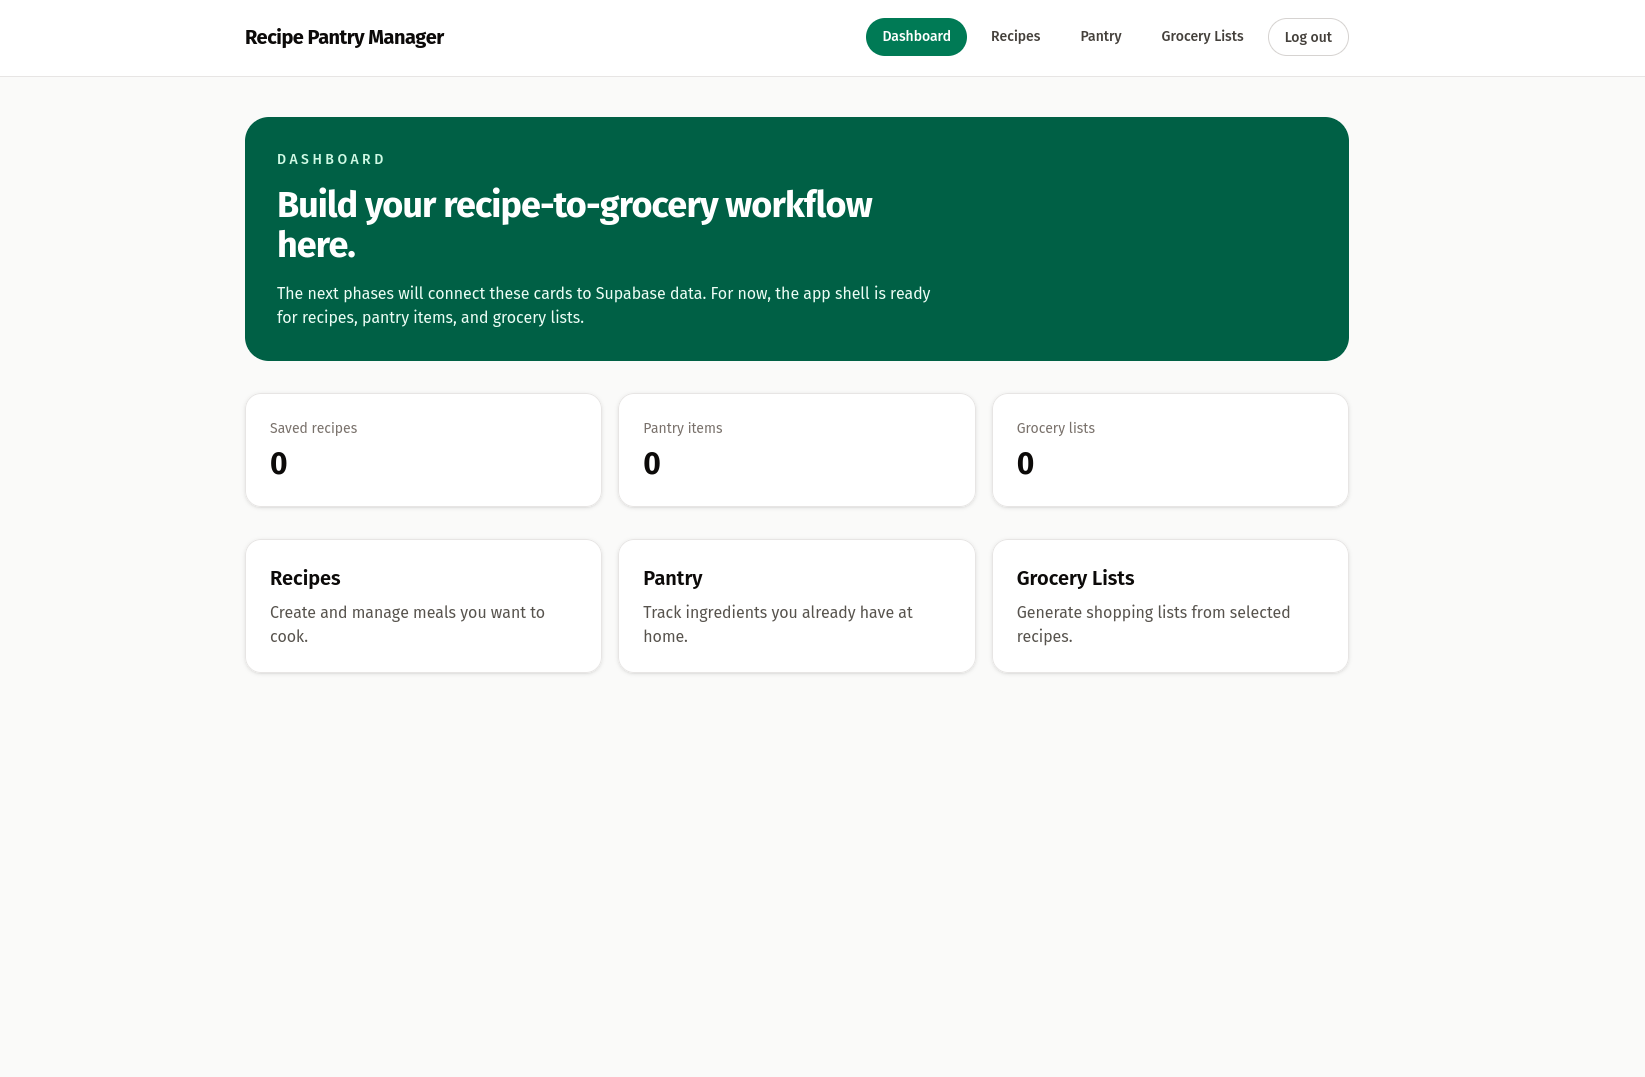
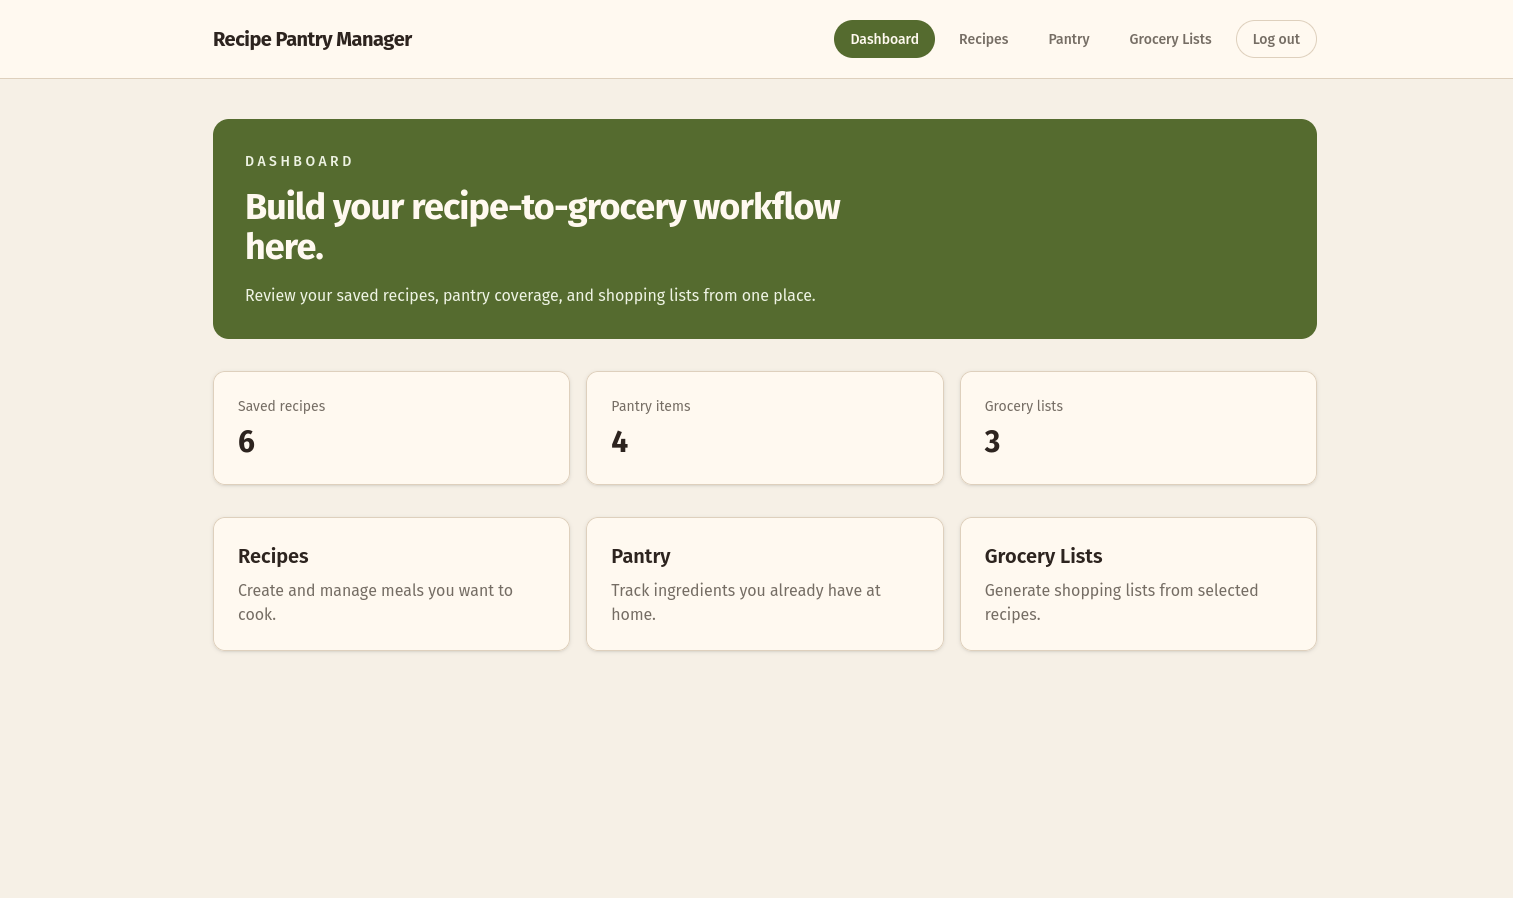
update readme with project info

diff --git a/README.md b/README.md
@@ -1,221 +1,156 @@
 # Recipe Pantry Manager
 
-Recipe Pantry Manager is a full-stack recipe and pantry app for saving recipes, tracking ingredients at home, and generating grocery lists based on what still needs to be bought.
+Recipe Pantry Manager is a full-stack recipe, pantry, and grocery-list app. Users can save recipes, manage a home pantry, and generate grocery lists that separate what they need to buy from what is already on hand.
 
-Welcome to your new TanStack Start app! 
+The app includes authenticated user data, server-side mutations, recipe importing, Supabase-backed storage, database migrations, Row Level Security, and automated tests.
 
-# Getting Started
+## Features
 
-To run this application:
+- Email/password authentication with protected app routes
+- Recipe create, read, update, and delete flows
+- Recipe URL import from structured JSON-LD recipe pages
+- Recipe image URL and upload support through Supabase Storage
+- Pantry item create, read, update, and delete flows
+- Recipe and pantry items search and filtering
+- Grocery list generation from one or more recipes
+- Pantry-aware grocery list sections for `Need to Buy` and `Already in Pantry`
+- Grocery item checkoff while shopping
+- Saved grocery lists with delete and regenerate from source recipes and current pantry
+- Unit tests and a Playwright core workflow test
+
+## Tech Stack
+
+- TanStack Start
+- TanStack Router
+- React
+- TypeScript
+- Tailwind
+- Supabase Auth, Storage and Database
+- Drizzle ORM and Drizzle Kit
+- Zod
+- Biome
+- Vitest
+- Playwright
+- Netlify
+
+## Screenshot
+
+![Recipe Pantry Manager screenshot](docs/images/recipe-pantry-manager.png)
+
+## Getting Started
+
+Install dependencies:
 
 ```bash
-npm install
-npm run dev
+pnpm install
 ```
 
-# Building For Production
-
-To build this application for production:
+Copy the environment template and fill in real values:
 
 ```bash
-npm run build
+cp .env.example .env
 ```
+
+Start the development server:
+
+```bash
+pnpm run dev
+```
+
+The app runs at `http://localhost:3000` by default.
+
+## Environment Variables
+
+The app expects these values:
+
+```env
+DATABASE_URL="postgresql://postgres.PROJECT_REF:YOUR_PASSWORD@aws-1-us-east-1.pooler.supabase.com:6543/postgres"
+VITE_SUPABASE_URL="https://PROJECT_REF.supabase.co"
+VITE_SUPABASE_ANON_KEY="YOUR_SUPABASE_ANON_KEY"
+
+E2E_EMAIL="recipe-pantry-e2e@example.com"
+E2E_PASSWORD="YOUR_E2E_TEST_PASSWORD"
+PLAYWRIGHT_BASE_URL="http://localhost:3000"
+```
+
+`DATABASE_URL`, `VITE_SUPABASE_URL`, and `VITE_SUPABASE_ANON_KEY` are required for the app to connect to Supabase. The `E2E_*` values are only required when running the Playwright workflow test.
+
+## Database
+
+Generate migrations after schema changes:
+
+```bash
+pnpm run db:generate
+```
+
+Apply migrations:
+
+```bash
+pnpm run db:migrate
+```
+
+Open Drizzle Studio:
+
+```bash
+pnpm run db:studio
+```
+
+The schema includes Row Level Security policies so authenticated users can only access their own recipes, pantry items, grocery lists, recipe tags, and related child records.
+
+## Scripts
+
+- `pnpm run dev` starts the local dev server
+- `pnpm run build` builds the production app
+- `pnpm run preview` previews the production build locally
+- `pnpm run check` runs Biome checks
+- `pnpm run check:fix` runs Biome and writes safe fixes
+- `pnpm run typecheck` runs TypeScript without emitting files
+- `pnpm run test` runs unit tests
+- `pnpm run test:e2e` runs Playwright tests
+- `pnpm run verify` runs checks, typecheck, and unit tests
 
 ## Testing
 
-This project uses [Vitest](https://vitest.dev/) for testing. You can run the tests with:
+Run unit tests:
 
 ```bash
-npm run test
+pnpm run test
 ```
 
-## Styling
-
-This project uses [Tailwind CSS](https://tailwindcss.com/) for styling.
-
-### Removing Tailwind CSS
-
-If you prefer not to use Tailwind CSS:
-
-1. Remove the demo pages in `src/routes/demo/`
-2. Replace the Tailwind import in `src/styles.css` with your own styles
-3. Remove `tailwindcss()` from the plugins array in `vite.config.ts`
-4. Uninstall the packages: `npm install @tailwindcss/vite tailwindcss -D`
-
-## Linting & Formatting
-
-This project uses [Biome](https://biomejs.dev/) for linting and formatting. The following scripts are available:
-
+Run the standard verification suite:
 
 ```bash
-npm run lint
-npm run format
-npm run check
+pnpm run verify
 ```
 
+Run the Playwright workflow test:
 
-## Deploy to Netlify
-
-This project ships with `netlify.toml` configured for a Netlify site:
-
-1. Push this repo to GitHub
-2. Visit https://app.netlify.com/start and import the repo
-3. Netlify auto-detects the build (`vite build` → `dist/client`)
-4. Open **Site settings → Environment variables** and add anything from `.env.example` that needs a real value in production
-5. Trigger the first deploy
-
-Server functions and API routes run on Netlify Functions. For lower-latency request handling, see Netlify Edge Functions: https://docs.netlify.com/edge-functions/overview.
-
-
-
-## Routing
-
-This project uses [TanStack Router](https://tanstack.com/router) with file-based routing. Routes are managed as files in `src/routes`.
-
-### Adding A Route
-
-To add a new route to your application just add a new file in the `./src/routes` directory.
-
-TanStack will automatically generate the content of the route file for you.
-
-Now that you have two routes you can use a `Link` component to navigate between them.
-
-### Adding Links
-
-To use SPA (Single Page Application) navigation you will need to import the `Link` component from `@tanstack/react-router`.
-
-```tsx
-import { Link } from "@tanstack/react-router";
+```bash
+pnpm run test:e2e
 ```
 
-Then anywhere in your JSX you can use it like so:
+The E2E test requires `E2E_EMAIL` and `E2E_PASSWORD` for an existing test account. It creates a pantry item, recipe, and grocery list, verifies the pantry-aware split, then performs best-effort cleanup.
 
-```tsx
-<Link to="/about">About</Link>
+## Deployment
+
+The project includes `netlify.toml` for Netlify deployment.
+
+Build command:
+
+```bash
+pnpm run build
 ```
 
-This will create a link that will navigate to the `/about` route.
+Publish directory:
 
-More information on the `Link` component can be found in the [Link documentation](https://tanstack.com/router/v1/docs/framework/react/api/router/linkComponent).
-
-### Using A Layout
-
-In the File Based Routing setup the layout is located in `src/routes/__root.tsx`. Anything you add to the root route will appear in all the routes. The route content will appear in the JSX where you render `{children}` in the `shellComponent`.
-
-Here is an example layout that includes a header:
-
-```tsx
-import { HeadContent, Scripts, createRootRoute } from '@tanstack/react-router'
-
-export const Route = createRootRoute({
-  head: () => ({
-    meta: [
-      { charSet: 'utf-8' },
-      { name: 'viewport', content: 'width=device-width, initial-scale=1' },
-      { title: 'My App' },
-    ],
-  }),
-  shellComponent: ({ children }) => (
-    <html lang="en">
-      <head>
-        <HeadContent />
-      </head>
-      <body>
-        <header>
-          <nav>
-            <Link to="/">Home</Link>
-            <Link to="/about">About</Link>
-          </nav>
-        </header>
-        {children}
-        <Scripts />
-      </body>
-    </html>
-  ),
-})
+```txt
+dist/client
 ```
 
-More information on layouts can be found in the [Layouts documentation](https://tanstack.com/router/latest/docs/framework/react/guide/routing-concepts#layouts).
+Add the Supabase environment variables in Netlify before deploying:
 
-## Server Functions
+- `DATABASE_URL`
+- `VITE_SUPABASE_URL`
+- `VITE_SUPABASE_ANON_KEY`
 
-TanStack Start provides server functions that allow you to write server-side code that seamlessly integrates with your client components.
-
-```tsx
-import { createServerFn } from '@tanstack/react-start'
-
-const getServerTime = createServerFn({
-  method: 'GET',
-}).handler(async () => {
-  return new Date().toISOString()
-})
-
-// Use in a component
-function MyComponent() {
-  const [time, setTime] = useState('')
-  
-  useEffect(() => {
-    getServerTime().then(setTime)
-  }, [])
-  
-  return <div>Server time: {time}</div>
-}
-```
-
-## API Routes
-
-You can create API routes by using the `server` property in your route definitions:
-
-```tsx
-import { createFileRoute } from '@tanstack/react-router'
-import { json } from '@tanstack/react-start'
-
-export const Route = createFileRoute('/api/hello')({
-  server: {
-    handlers: {
-      GET: () => json({ message: 'Hello, World!' }),
-    },
-  },
-})
-```
-
-## Data Fetching
-
-There are multiple ways to fetch data in your application. You can use TanStack Query to fetch data from a server. But you can also use the `loader` functionality built into TanStack Router to load the data for a route before it's rendered.
-
-For example:
-
-```tsx
-import { createFileRoute } from '@tanstack/react-router'
-
-export const Route = createFileRoute('/people')({
-  loader: async () => {
-    const response = await fetch('https://swapi.dev/api/people')
-    return response.json()
-  },
-  component: PeopleComponent,
-})
-
-function PeopleComponent() {
-  const data = Route.useLoaderData()
-  return (
-    <ul>
-      {data.results.map((person) => (
-        <li key={person.name}>{person.name}</li>
-      ))}
-    </ul>
-  )
-}
-```
-
-Loaders simplify your data fetching logic dramatically. Check out more information in the [Loader documentation](https://tanstack.com/router/latest/docs/framework/react/guide/data-loading#loader-parameters).
-
-# Demo files
-
-Files prefixed with `demo` can be safely deleted. They are there to provide a starting point for you to play around with the features you've installed.
-
-# Learn More
-
-You can learn more about all of the offerings from TanStack in the [TanStack documentation](https://tanstack.com).
-
-For TanStack Start specific documentation, visit [TanStack Start](https://tanstack.com/start).
+Server functions run through Netlify Functions.
